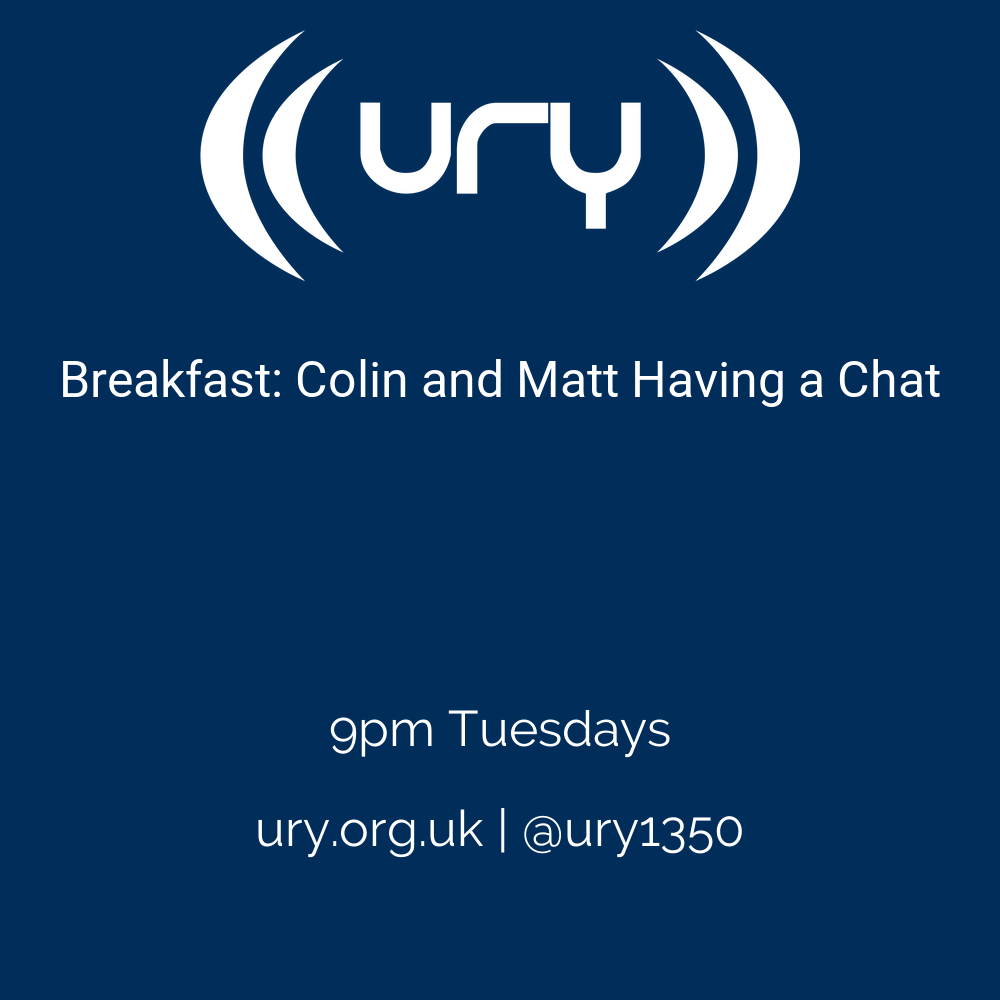
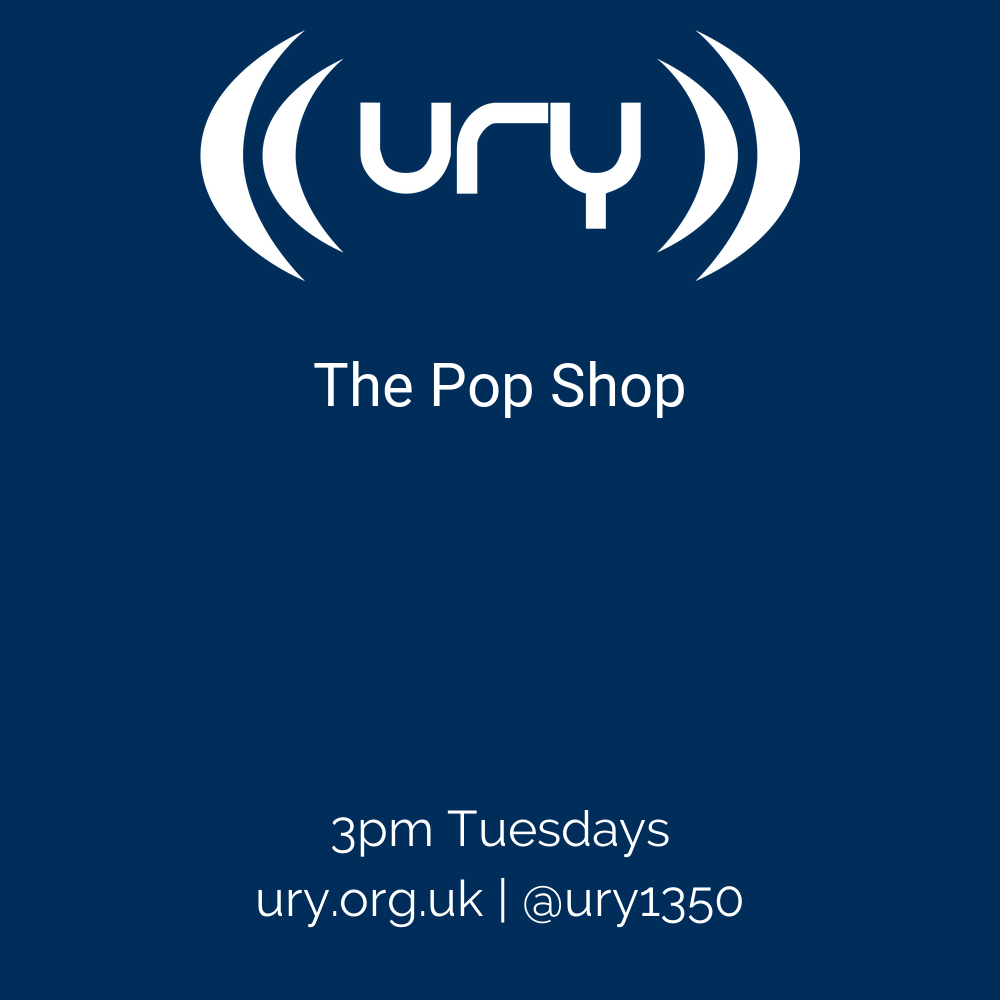
added some params

Changed region(s): [[0.248, 0.806, 0.744, 0.93], [0.062, 0.341, 0.961, 0.434], [0.31, 0.713, 0.682, 0.775]]

diff --git a/imageGen/createImage.py b/imageGen/createImage.py
@@ -1,10 +1,13 @@
 from PIL import Image, ImageDraw, ImageFont
 import shutil
 
-headline = 'Breakfast: Colin and Matt Having a Chat'
-bottomline = '9pm Tuesdays'
+headline = 'The Pop Shop'
+bottomline = '3pm Tuesdays'
 social = 'ury.org.uk | @ury1350'
 brand = '#002d5a'
+topText = 350
+bottomText = 800
+btmPadding = 70
 
 W, H = (1000, 1000)
 img = Image.new('RGB', (W, H), color=brand)
@@ -21,15 +24,15 @@ while w > 900:
         '../settings/fonts/Roboto-Regular.ttf', fontsize))
 roboto = ImageFont.truetype(
     '../settings/fonts/Roboto-Regular.ttf', fontsize)
-pos = (((W-w)/2, 350))
+pos = (((W-w)/2, topText))
 d.text(pos, headline, fill=(255, 255, 255), font=roboto)
 
 w, h = d.textsize(bottomline, raleway)
-pos = (((W-w)/2, 700))
+pos = (((W-w)/2, bottomText))
 d.text(pos, bottomline, fill=(255, 255, 255), font=raleway)
 
 w, h = d.textsize(social, raleway)
-pos = (((W-w)/2, 800))
+pos = (((W-w)/2, bottomText + btmPadding))
 d.text(pos, social, fill=(255, 255, 255), font=raleway)
 
 
